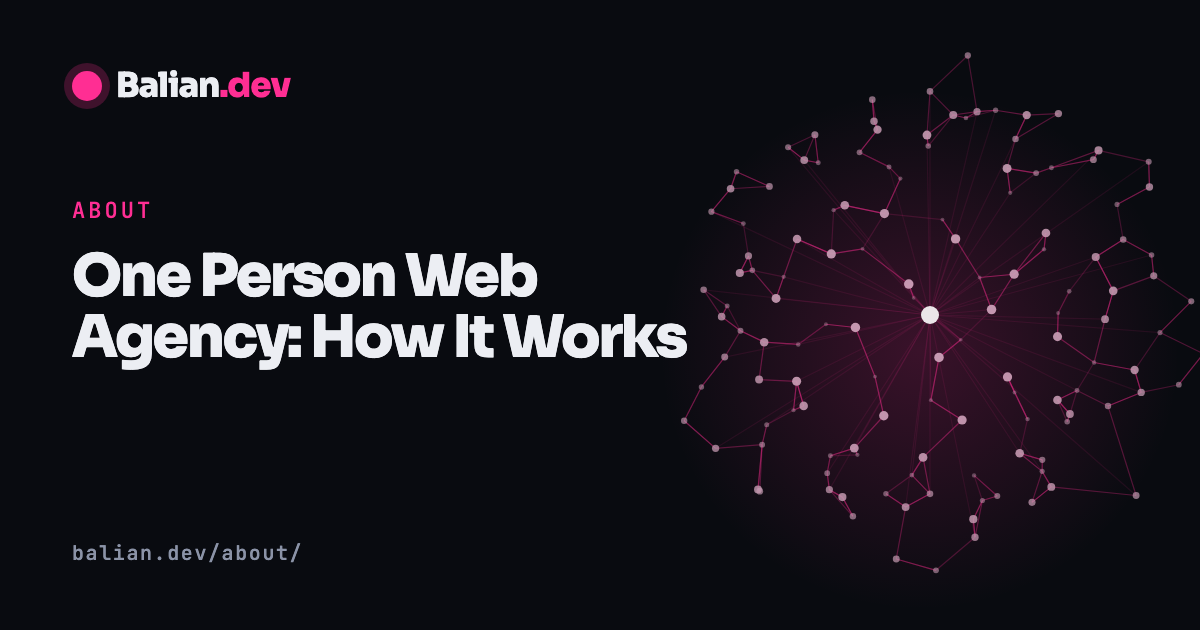
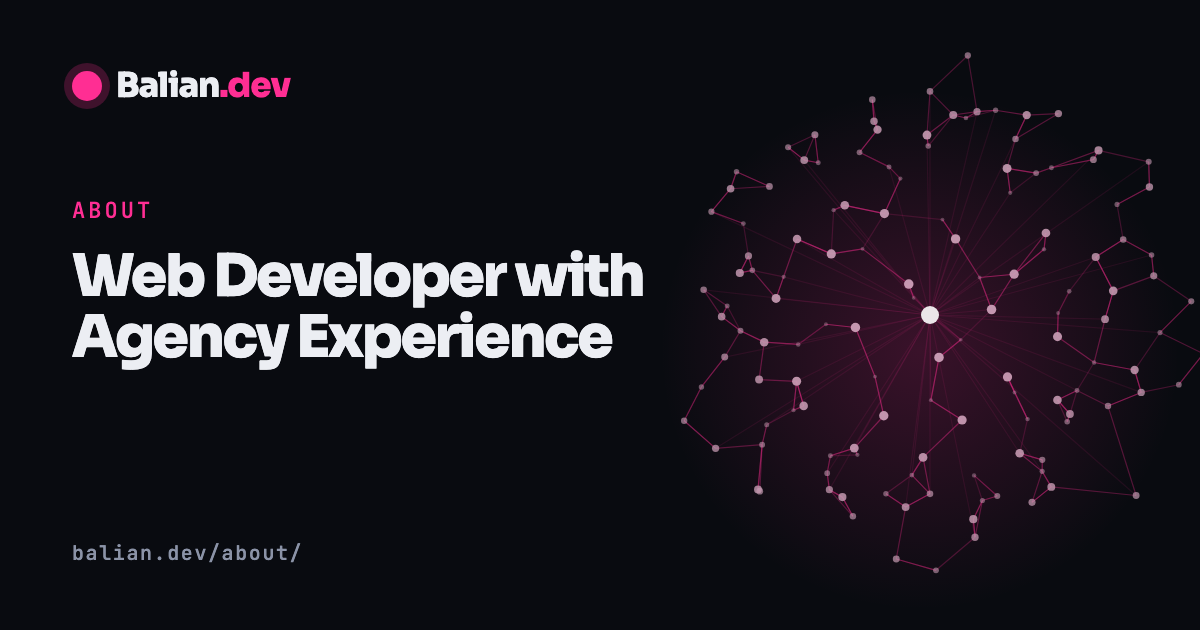
About page: lead with experience and offer, process section shortened

Changed region(s): [[0.0617, 0.3921, 0.5858, 0.573]]

diff --git a/src/data/ledes.ts b/src/data/ledes.ts
@@ -53,8 +53,8 @@ export const copy: Record<string, PageCopy> = {
     lede: "A cookie banner that does not slow your site down. It handles GDPR and California rules, and the banner is small enough that you will not notice it loading.",
   },
   about: {
-    h1: "What an agency of one actually means.",
-    lede: "I am one engineer doing work that usually takes a team. Here is how that works, where it does not, and what happens if I am ever unavailable.",
+    h1: "Fifteen years inside agencies, now working for you directly.",
+    lede: "I have spent more than fifteen years in agency environments, building for clients in many industries. Now I do that work on my own, so you deal with me.",
   },
   process: {
     h1: "A process with your sign-off at every gate.",

diff --git a/src/data/seo.ts b/src/data/seo.ts
@@ -69,9 +69,9 @@ export const seo: Record<string, Seo> = {
     keyword: "consent management platform",
   },
   about: {
-    title: "One Person Web Agency: How It Works",
-    description: "How a one person web agency works: one senior engineer covering strategy, design, build and launch, with AI directed and every change reviewed.",
-    keyword: "one person web agency",
+    title: "Web Developer with Agency Experience",
+    description: "A web developer with agency experience: more than fifteen years on agency teams across many industries, now working directly with clients.",
+    keyword: "web developer with agency experience",
   },
   process: {
     title: "Web Design Process: Design Before Build",

diff --git a/CONTENT.md b/CONTENT.md
@@ -45,6 +45,10 @@ That is all. It does not introduce the site, explain the process, count the page
 - Specific over impressive. A named tool beats an adjective.
 - No past-employer names, clients, results or internal tools. Years of experience may be stated generally.
 
+## Agency experience
+
+More than fifteen years of professional work in agency environments, across many industries and clients, is the lead credential on About. Say it generally; no client or employer names, no industries or results that cannot be shown.
+
 ## The ten employed years
 
 For about ten years I worked as an employee at an agency. Most of what I built there belongs to the clients and the company, so it does not appear here, and I do not claim it as mine. The site says this plainly (About, Work, Home) instead of hiding it. What can be shown: my own products, my process, how I work, and the stacks I know.
